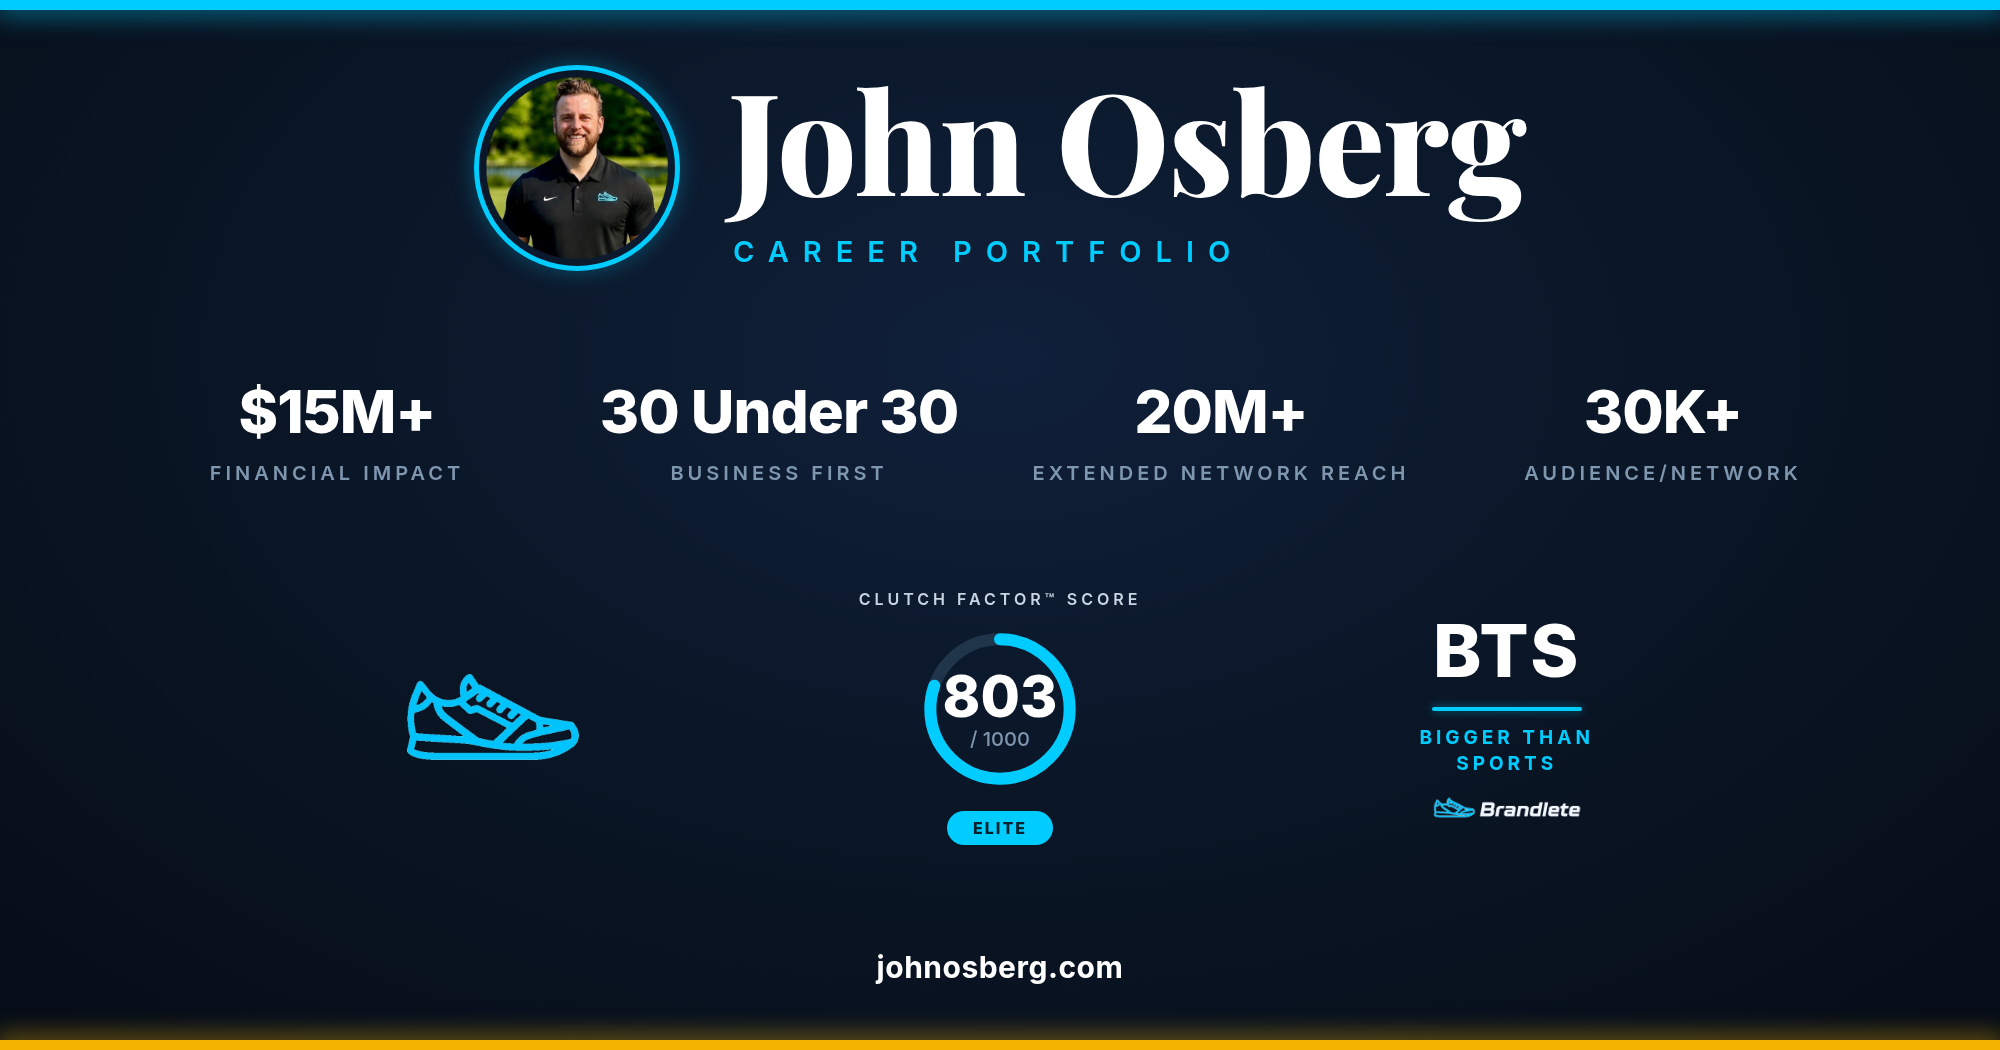
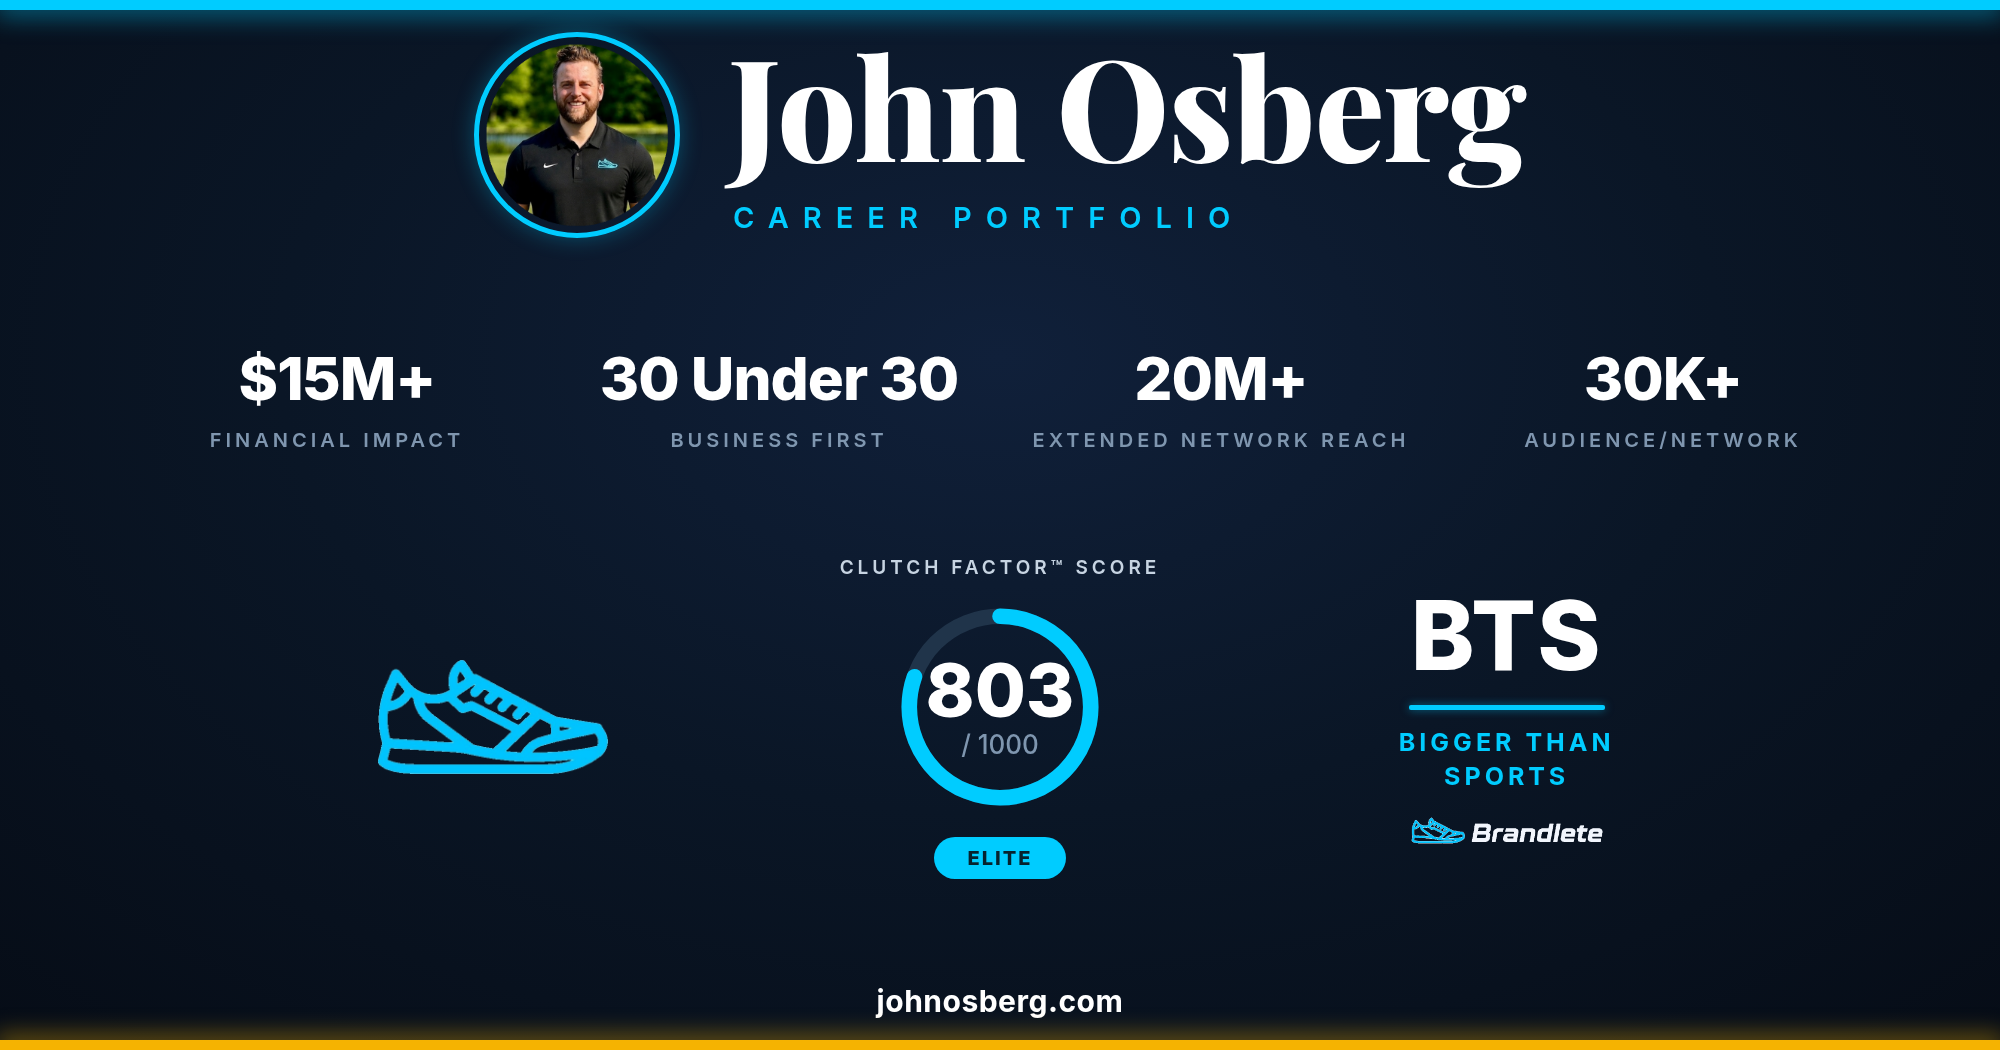
OG card: enlarge bottom-row marks further (v=110)

diff --git a/src/app/layout.tsx b/src/app/layout.tsx
@@ -43,13 +43,13 @@ export const metadata: Metadata = {
     siteName: SITE_NAME,
     locale: "en_US",
     type: "website",
-    images: [{ url: "/og.png?v=109", width: 2000, height: 1050, alt: SITE_NAME }],
+    images: [{ url: "/og.png?v=110", width: 2000, height: 1050, alt: SITE_NAME }],
   },
   twitter: {
     card: "summary_large_image",
     title: SITE_TITLE,
     description: OG_DESCRIPTION,
-    images: ["/og.png?v=109"],
+    images: ["/og.png?v=110"],
   },
 };
 
